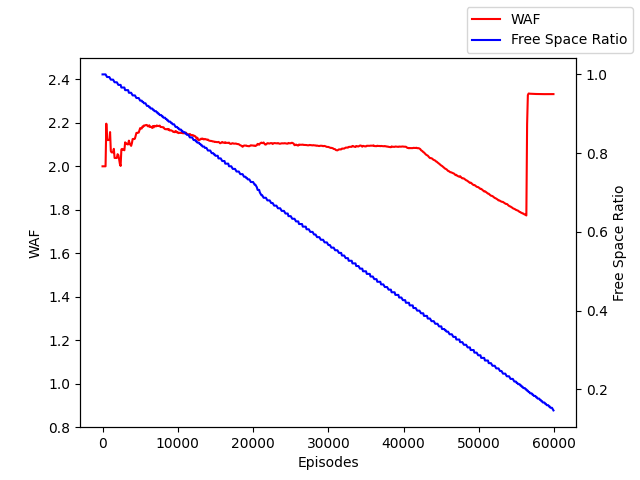
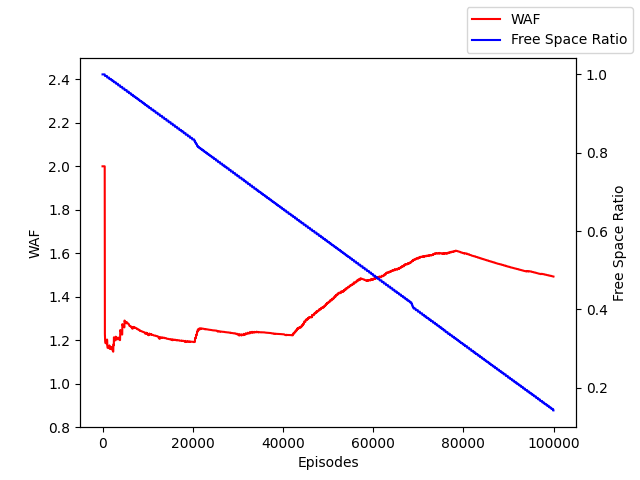
ADD: new GC Strategy

diff --git a/test.py b/test.py
@@ -1,19 +1,54 @@
 import matplotlib.pyplot as plt
 import numpy as np
-N = 100
-EPSILON = 10
-EPSILON_MIN = 1
-EPSILON_DECAY = 11
-delta = EPSILON - EPSILON_MIN
-a = [EPSILON_MIN + delta * np.exp(-i / EPSILON_DECAY) for i in range(N)]
+from dotenv import load_dotenv
+import os
+load_dotenv()
 
-decay_rate = delta / (N - 1) # linear decay rate
+def DrawingDoubleCurve():
+    N = 100
+    EPSILON = 10
+    EPSILON_MIN = 1
+    EPSILON_DECAY = 30
+    delta = EPSILON - EPSILON_MIN
+    a = [EPSILON_MIN + delta * np.exp(-i / EPSILON_DECAY) for i in range(N)]
+    decay_rate = delta / (N - 1) # linear decay rate
+    a = [EPSILON - decay_rate * i for i in range(N)]
+    delta = EPSILON - EPSILON_MIN
+    a = [EPSILON_MIN + delta * np.exp(-i / EPSILON_DECAY) for i in range(N//2)]
+    b = [EPSILON_MIN + delta * np.exp(-i / EPSILON_DECAY) for i in range(N//2,-1,-1)]
+    a.extend(b)
+    plt.plot(a)
+    plt.savefig('test.png')
 
-a = [EPSILON - decay_rate * i for i in range(N)]
+def DrawingWeightFunctionCurve():
+    ESTIMATED_BITS = int(os.getenv('ESTIMATED_BITS'))
+    N = 10**ESTIMATED_BITS
+    EPSILON = float(os.getenv('EPSILON'))
+    EPSILON_MIN = float(os.getenv('EPSILON_MIN'))
+    EPSILON_DECAY = float(os.getenv('EPSILON_DECAY'))
+    delta = EPSILON - EPSILON_MIN
+    weight_function = [EPSILON_MIN + delta * np.exp(-i / EPSILON_DECAY) for i in range(N)]
+    plt.plot(weight_function)
+    plt.savefig('test.png')
 
-delta = EPSILON - EPSILON_MIN
-a = [EPSILON_MIN + delta * np.exp(-i / EPSILON_DECAY) for i in range(N//2)]
-b = [EPSILON_MIN + delta * np.exp(-i / EPSILON_DECAY) for i in range(N//2,-1,-1)]
-a.extend(b)
-plt.plot(a)
-plt.savefig('test.png')
+def DrawingEstimatedWAFDistribution():
+    x = [1.31, 1.27, 1.23, 1.21, 1.2, 1.19, 1.17, 1.33, 1.28, 1.25, 1.24, 1.16, 1.14, 1.18, 1.15, 1.13, 1.3, 1.45, 1.42, 1.41, 1.39, 1.37, 1.12, 1.35, 1.34, 1.7, 1.68, 1.66, 1.65, 1.64, 1.6, 1.57, 1.55, 1.54, 1.38, 1.26, 1.53, 1.52, 1.32, 1.51, 1.29, 1.22, 1.36, 1.5, 1.63, 1.62, 1.49, 1.59, 1.56, 1.69, 1.48, 1.47, 1.82, 1.81, 1.8, 1.44, 1.43, 1.78, 1.77, 1.4, 1.74, 1.71, 1.58, 1.67, 1.61, 1.46, 1.11, 1.95, 2.0, 1.94, 1.93, 1.92, 1.91, 1.89, 1.84, 1.83, 1.79, 1.88, 1.76, 1.75, 1.99, 1.9, 1.72, 1.1, 1.73, 1.87, 1.09, 1.08, 1.07, 1.06, 1.04, 1.03, 1.05, 1.01, 1.0, 1.02, 1.86, 1.98, 1.97, 1.96, 1.85]
+    y = [1407, 3470, 10352, 16996, 15840, 21871, 75102, 2765, 2221, 2574, 3696, 114802, 76228, 43946, 67641, 26280, 3713, 1697, 1837, 1747, 3902, 5109, 30348, 2406, 3451, 201, 413, 1708, 452, 1588, 566, 2080, 2218, 3817, 4027, 2097, 1377, 2357, 2901, 4137, 3288, 10177, 3244, 4880, 1575, 1720, 3475, 702, 2124, 289, 2395, 2532, 202, 29, 113, 427, 2898, 129, 27, 3946, 372, 1344, 824, 110, 3147, 3793, 16037, 17, 6741, 94, 2914, 6, 329, 2028, 1581, 670, 39, 3878, 394, 147, 1381, 2757, 52, 3177, 1183, 1279, 6444, 132, 2415, 912, 6803, 6906, 3986, 75323, 259885, 35873, 3552, 11, 3151, 1, 156]
+    # plot the bar chart
+    plt.bar(x, y, width=0.005)
+    # set the x-label and y-label
+    plt.xlabel('X-axis')
+    plt.ylabel('Y-axis')
+    # show the plot
+    plt.savefig('test.png')
+
+def DrawingGCDistribution():
+    x = [42169, 42256, 42431, 42575, 42721, 42889, 43084, 43302, 43425, 43854, 44025, 44261, 44380, 44507, 44594, 44755, 44915, 45095, 45234, 45390, 45586, 45816, 45962, 46453, 46596, 46856, 46997, 47206, 47483, 47680, 47928, 48101, 48254, 48489, 48701, 48905, 49133, 49276, 49517, 49559, 49733, 49960, 50158, 50333, 50473, 50681, 50882, 51078, 51243, 51329, 51484, 51621, 51781, 51982, 52148, 52325, 52451, 52733, 52923, 53228, 53440, 53594, 53715, 53896, 54059, 54181, 54404, 54562, 54751, 54920, 55130, 55303, 55476, 55641, 55788, 55937, 56135, 56296, 56406, 56555, 56779, 56980, 58621, 58892, 59346, 59566, 59838, 59983, 60207, 60535, 60848, 61077, 61274, 61602, 61884, 62162, 62329, 62504, 62593, 62725, 62889, 63019, 63287, 63482, 63684, 63855, 64044, 64211, 64452, 64707, 65062, 65252, 65455, 65695, 65862, 66040, 66136, 66293, 66468, 66604, 66820, 66934, 67012, 67277, 67590, 67728, 67967, 68128, 68289, 68952, 69111, 69213, 69457, 69699, 69960, 70149, 70292, 70464, 70676, 71002, 71225, 71497, 71734, 72026, 72246, 72547, 72844, 73049, 73251, 73431, 73550, 73834, 74127, 74510, 74783, 75285, 75547, 75757, 76149, 76535, 76669, 76956, 77160, 77359, 77592, 77829, 78012, 78611, 80020, 83702, 93730, 94101, 94396, 94478, 96042, 96100, 97246, 97488, 99614]
+    plt.hist(x, width= 100, bins = len(x))
+    # set the x-label and y-label
+    plt.xlabel('Values')
+    plt.ylabel('Frequency')
+    plt.xlim(0, 100000)
+    # show the plot
+    plt.savefig('test.png')
+    plt.clf()

diff --git a/ftl/nand/nand_controller.py b/ftl/nand/nand_controller.py
@@ -12,6 +12,7 @@ LBA_BYTES = int(os.getenv('LBA_BYTES'))
 BLOCK_NUM = int(os.getenv('BLOCK_NUM'))
 NUMS_OF_PAGE_IN_BLOCK = int(os.getenv('NUMS_OF_PAGE_IN_BLOCK'))
 WAF_DISTRIBUTION = os.getenv('WAF_DISTRIBUTION')
+ACTIVE_GC_WAF_FULL_RATIO = float(os.getenv('ACTIVE_GC_WAF_FULL_RATIO'))
 
 class NandController:
     def __init__(self):
@@ -96,21 +97,28 @@ class NandController:
         # 計算現在所有已滿的block的waf估計值
         fullBlockIndexes = [item for i, item in enumerate(range(BLOCK_NUM)) if i not in self.freeBlockIndexes]
         tempWAFs = [MultiplyWeight(self.blocks[blockIndex].GetTempWAF()) for blockIndex in fullBlockIndexes]
+        # tempWAFs = [self.blocks[blockIndex].GetTempWAF() for blockIndex in fullBlockIndexes]
         if len(tempWAFs) != 0: return sum(tempWAFs) / len(tempWAFs)
         return 2
     
     def UpdateBlockWAFDistribution(self):
         # 計算現在所有已滿的block的WAF分布
         fullBlockIndexes = [item for i, item in enumerate(range(BLOCK_NUM)) if i not in self.freeBlockIndexes]
-        tempInvalidNums = [int((2 - (self.blocks[blockIndex].invalidPage / NUMS_OF_PAGE_IN_BLOCK)) * 100) for blockIndex in fullBlockIndexes]
+        tempInvalidNums = [str(round((2 - (self.blocks[blockIndex].invalidPage / NUMS_OF_PAGE_IN_BLOCK)), 2)) for blockIndex in fullBlockIndexes]
         self.distributionCounter.update(tempInvalidNums)
+
+    # not inefficient 或許改成每Estimate waf step去檢查一次 然後清掉所有符合條件的block
+    def IsFullInvalidBlock(self):
+        fullInvalidBlockIndexes = [item for i, item in enumerate(range(BLOCK_NUM)) if i not in self.freeBlockIndexes and self.blocks[i].invalidPage / NUMS_OF_PAGE_IN_BLOCK > ACTIVE_GC_WAF_FULL_RATIO] 
+        return bool(fullInvalidBlockIndexes)
 
     def ShowBlockWAFDistribution(self):
         x = list(self.distributionCounter.keys())
+        x = [float(i) for i in x]
         y = list(self.distributionCounter.values())
-        plt.bar(x, y)
-        plt.xlabel("Estimate WAF")
+        plt.bar(x, y, width=0.005)
+        plt.xlabel("Estimated WAF")
         plt.ylabel("Times")
-        plt.title("Estimate WAF Distribution")
+        plt.title("Estimated WAF Distribution")
         plt.savefig(WAF_DISTRIBUTION)
         plt.clf()

diff --git a/libs/history.py b/libs/history.py
@@ -6,6 +6,7 @@ load_dotenv()
 
 WAF_AVERAGE_PERIOD = int(os.getenv('WAF_AVERAGE_PERIOD'))
 NUMS_OF_PAGE_IN_BLOCK = int(os.getenv('NUMS_OF_PAGE_IN_BLOCK'))
+TRACE_LENGTH = int(os.getenv('TRACE_LENGTH'))
 
 class WAFHistory:
     def __init__(self):
@@ -17,6 +18,7 @@ class WAFHistory:
         self.wafs = []
         self.wafFreeRatios = []
         self.gcValids = []
+        self.gcEpisodes = []
 
     def AddHistory(self, episode, writeByte, actualWriteByte, freeRatio):
         self.episodes.append(episode)
@@ -25,8 +27,9 @@ class WAFHistory:
         self.freeRatios.append(freeRatio)
 
     # gc的那個block valid page的個數
-    def AddGC(self, validNums):
+    def AddGC(self, episode, validNums):
         self.gcValids.append(validNums)
+        self.gcEpisodes.append(episode)
 
     def AddEstimateWAF(self, episode, tempWAF, freeRatio):
         self.wafEpisodes.append(episode)
@@ -65,15 +68,27 @@ class WAFHistory:
         plt.clf()
     
     def ShowEstimateWAFHistory(self, path):
-        plt.title(f'Estimate WAF')
+        plt.title(f'Estimated WAF')
         fig, ax1 = plt.subplots()
         ax2 = ax1.twinx()
         ax1.set_xlabel('Episodes')
         ax1.set_ylabel('WAF')
-        ax1.set_ylim(0.8, 2.5)
+        # ax1.set_ylim(0.8, 2.5)
         ax2.set_ylabel('Free Space Ratio')
         ax1.plot(self.wafEpisodes, self.wafs, label='WAF', color='red')
         ax2.plot(self.wafEpisodes, self.wafFreeRatios, label='Free Space Ratio', color='blue')
         fig.legend(loc='upper right')
+        plt.savefig(path)
+        plt.clf()
+
+    def ShowGCDistribution(self, path):
+        plt.title(f'GC Distribution Count : {len(self.gcEpisodes)}')
+        # plot the histogram
+        plt.hist(self.gcEpisodes, width= 100, bins = len(self.gcEpisodes))
+        # set the x-label and y-label
+        plt.xlabel('Episodes')
+        plt.ylabel('Frequency')
+        plt.xlim(0, TRACE_LENGTH)
+        # show the plot
         plt.savefig(path)
         plt.clf()

diff --git a/main.py b/main.py
@@ -7,6 +7,7 @@ load_dotenv()
 
 TRACE_LENGTH = int(os.getenv('TRACE_LENGTH'))
 WAF_RESULT = os.getenv('WAF_RESULT')
+GC_DISTRIBUTION_RESULT = os.getenv('GC_DISTRIBUTION_RESULT')
 ESTIMATE_WAF_PERIOD = int(os.getenv('ESTIMATE_WAF_PERIOD'))
 
 def main():
@@ -14,7 +15,8 @@ def main():
     history = WAFHistory()
     for i in tqdm(range(TRACE_LENGTH)):
         request, writeBytes, gcValid = hostInterface.Step()
-        if (gcValid): history.AddGC(gcValid)
+        if (gcValid): 
+            history.AddGC(i, gcValid)
         history.AddHistory(i, request.bytes, writeBytes, hostInterface.flashTranslation.nandController.GetFreeSpaceRatio())
         if i % ESTIMATE_WAF_PERIOD == 0:
             tempWAF = hostInterface.flashTranslation.nandController.GetTempWAF()
@@ -23,6 +25,7 @@ def main():
     history.Finish(hostInterface.flashTranslation.garbageCollection.count, hostInterface.flashTranslation.garbageCollection.gcFailCount)
     #history.ShowHistory(WAF_RESULT)
     history.ShowEstimateWAFHistory(WAF_RESULT)
+    history.ShowGCDistribution(GC_DISTRIBUTION_RESULT)
     hostInterface.flashTranslation.nandController.ShowBlockWAFDistribution()
     
 if __name__ == "__main__":

diff --git a/ftl/gc/garbage_collection.py b/ftl/gc/garbage_collection.py
@@ -13,12 +13,15 @@ class GarbageCollection:
         self.nandController = nandController
         self.addressTranslation = addressTranslation
 
-    # use in passive gc, it will only run when free space is less than setting free ratio
+    # use in passive gc, it will only run when free space is less than setting free ratio -- version 1
+    # when there is an full invalid block do garbage collection, besides don't do -- version 2
     def AutoCheck(self):
-        if self.nandController.GetFreeSpaceRatio() < (1 - AUTO_GC_RATIO): 
+        # if self.nandController.GetFreeSpaceRatio() < (1 - AUTO_GC_RATIO): 
+        if self.nandController.IsFullInvalidBlock():
             return self.Run()
         else:
             return 0, None
+        # return 0, None
 
     # implement gc because of free space is less than setting ratio
     def Run(self):

diff --git a/libs/distribution.py b/libs/distribution.py
@@ -3,7 +3,8 @@ from dotenv import load_dotenv
 import os
 load_dotenv()
 
-N = 100
+ESTIMATED_BITS = int(os.getenv('ESTIMATED_BITS'))
+N = 10**ESTIMATED_BITS
 
 EPSILON = float(os.getenv('EPSILON'))
 EPSILON_MIN = float(os.getenv('EPSILON_MIN'))
@@ -13,5 +14,5 @@ delta = EPSILON - EPSILON_MIN
 weight_function = [EPSILON_MIN + delta * np.exp(-i / EPSILON_DECAY) for i in range(N)]
 
 def MultiplyWeight(waf):
-    index = int(waf * 100) - 100 - 1
-    return (waf - 1) * weight_function[index] + 1
+    index = int(waf * N) - N - 1
+    return waf * weight_function[index]
